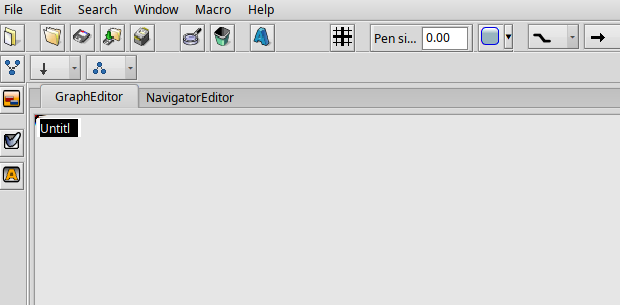
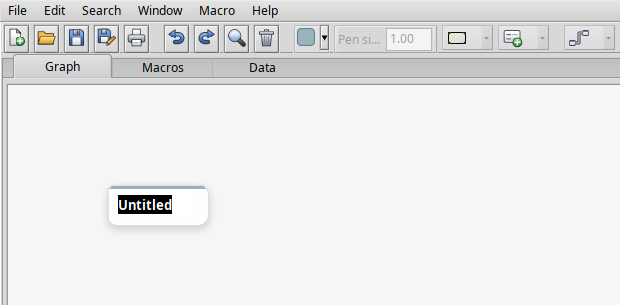
Docs: screenshots and texts for the new look
Claude-Session: https://claude.ai/code/session_01PMj6tpvjB6sijH4ABSm4uU

Changed region(s): [[0.0, 0.0, 1.0, 1.0], [0.1839, 0.5902, 0.3371, 0.7082]]

diff --git a/docs/help/user-guide.md b/docs/help/user-guide.md
@@ -11,31 +11,33 @@ through the main workflows using screenshots of a running instance.
 ![Toolbar](screenshots/03-toolbar.png)
 
 Left to right: file actions (New, Open, Save, Save As, Print), then
-Search, Delete, and font settings, then grid toggle, pen size, fill
-color, and on the right three icon choice fields:
+Undo, Redo, Find and Delete. The groups after that act on the selection
+and are shown while the **Graph** tab is active:
 
+- **Color** - opens the color picker. For nodes it has four tabs:
+  **Fill** (the card's background), **Highlight** (the band along the
+  top), **Border** and **Text**; for connections it sets the line
+  color. Each tab offers the theme's standard color, a palette, the
+  custom colors you used recently, and an alpha slider for see-through
+  colors. The color shows live on the selection.
+- **Pen size** - the border width of the selected nodes, or the line
+  width of the selected connections (arrowheads grow with it).
 - **Node shape** - rounded rectangle, rectangle, ellipse, diamond,
-  triangle, hexagon, parallelogram, or note. Applies to the selected
-  nodes; name and attributes stay inside the shape, and connections
-  dock on its outline. Undo and macro recording work as for any other
-  change.
-- **Connection shape** - straight, rounded, or angular. Applies to
-  whichever connections are currently selected.
+  triangle, hexagon, parallelogram, or note. Name and attributes stay
+  inside the shape, and connections dock on its outline.
+- **Attribute** - adds a text or a yes/no attribute to the selected
+  nodes (see below).
+- **Connection shape** - straight, rounded, or angular.
 - **Arrow ends** - arrowhead at the target, at the source, at both
   ends, or none.
 
-All three show the current pick as an icon; the pop-up menu also
-carries the name, in case the icon alone isn't clear enough.
+The choice fields show the current pick as an icon; the pop-up menu
+also carries the name. Undo and macro recording work as for any other
+change.
 
-The **grid toggle** overlays an alignment grid and snaps node
-positions to it as you create or drag them - a quick way to line
-several nodes up into neat rows or columns without hand-nudging each
-one.
+Then the automatic layout:
 
-Below that, a second toolbar row, visible while the GraphEditor tab is
-active:
-
-![Auto-Layout toolbar](screenshots/06-autolayout-toolbar.png)
+![Auto-Layout tools](screenshots/06-autolayout-toolbar.png)
 
 - **Leftmost icon** - applies the automatic layout.
 - **Direction** - which way the graph grows (top-to-bottom,
@@ -43,30 +45,40 @@ active:
 - **Topology** - the layout algorithm (hierarchical, circular,
   force-directed, ...).
 
+The last two icons toggle the **grid**, which snaps node positions as
+you create or drag them, and the **smart alignment guides**, which
+show when a dragged node lines up with its neighbours.
+
+The status bar at the bottom shows the selection, its position and
+size, and the zoom; **-**, **+** and **Fit** change the zoom, which
+keeps the middle of the view in place.
+
 ## Creating a node
 
-Double-clicking an empty spot in the GraphEditor creates a new node and
-immediately puts its name into edit mode:
+Double-clicking an empty spot in the **Graph** tab creates a new node
+and immediately puts its name into edit mode:
 
 ![New node](screenshots/01-insert-node.png)
 
 Type a name, done. Double-clicking *inside* an existing group instead
 adds the new node as a child of that group directly.
 
-The narrow toolbar down the left edge (visible in the screenshot
-above) carries the GraphEditor's own node tools: group the current
-selection, add a boolean attribute, and add a text attribute.
+Hovering over a node shows its resize handles and connection points; a
+selected node keeps its handles on all sides and corners. The mouse
+pointer shows what a click would do - edit text, toggle, resize, or
+start a connection.
 
 ## Attributes
 
-Any node can carry its own attribute rows - added to the selected node
-via the "add boolean attribute" / "add text attribute" icons on that
-left-edge toolbar:
+Any node can carry its own attribute rows - added to the selected
+nodes via the toolbar's **Attribute** menu (Text or Yes/No). The new
+row's name opens for typing right away:
 
 ![Node with attributes](screenshots/04-node-with-attributes.png)
 
-Each row has a checkmark icon (toggle the value) and a red cross
-(remove the row).
+Click a name or a text value to edit it, click a yes/no box to toggle
+it. A selected node shows a small cross at the end of each row to
+remove it.
 
 ## Search and bulk edits
 
@@ -82,7 +94,7 @@ clicked on.
 
 ## Connections
 
-Dragging from one of a node's four red connection points to another
+Dragging from one of a node's four connection points to another
 node creates a connection between them; it can be dropped anywhere on
 the target node. The line docks where it meets the node's outline,
 also for shaped nodes. Its shape and arrow ends can be
@@ -91,8 +103,8 @@ connection is selected (works on several at once).
 
 ## Grouping
 
-Select several nodes, then click the group icon in the toolbar. The
-group draws itself as one connected shape that hugs its children
+Select several nodes, then click **Group** in the small bar that
+appears above the selection. The group draws itself as one connected shape that hugs its children
 tightly - even when they're different sizes or don't line up at the
 same height:
 
@@ -103,9 +115,8 @@ and shrinks back just as readily when a child is removed. Double-
 clicking the group's own area adds a new child node to it directly (see
 above).
 
-A freshly created group defaults to just a faint tint with no drop
-shadow - like any node, its fill color can be set to something solid
-via the toolbar's fill color control.
+A freshly created group is drawn as a faint tint behind its children;
+the color picker's **Fill** tab gives it a color of its own.
 
 If two children don't overlap vertically at all - one sitting entirely
 above the other - the group connects them with a short, fixed-width
@@ -115,7 +126,7 @@ corridor instead of stretching a single shape across the gap:
 
 ## Automatic layout
 
-The leftmost icon of the second toolbar row (see above) rearranges the
+The automatic layout icon in the toolbar (see above) rearranges the
 whole graph - useful after inserting many nodes by hand, which tend to
 overlap. Direction and topology can be set first via the two fields
 next to it.
@@ -123,13 +134,13 @@ next to it.
 ## Macros
 
 The **Macro** menu records a sequence of actions and plays it back
-later. The **MacroEditor** tab shows a macro as a tree you can edit -
+later. The **Macros** tab shows a macro as a tree you can edit -
 change values, add and move commands - and builds new macros from a
 list of all commands. Macros can repeat steps, run them per selected
 node or only when a search finds something, pass values along in
 variables and put them into text, and are saved with the document.
 
-![The MacroEditor tab](screenshots/10-macro-editor.png)
+![The Macros tab](screenshots/10-macro-editor.png)
 
 See [Macros](macros.md) for the full guide and the command reference.
 

diff --git a/docs/help/macros.md b/docs/help/macros.md
@@ -3,15 +3,15 @@
 A macro is a list of commands - insert nodes, select, move, change an
 attribute, lay out the graph, ... - that ProjectConceptor plays back on
 the current document. Macros can be recorded while you work, built and
-edited in the **MacroEditor** tab, and use loops, conditions and
+edited in the **Macros** tab, and use loops, conditions and
 variables. They are saved with the document and can be exported to a
 text file.
 
-![The MacroEditor tab](screenshots/10-macro-editor.png)
+![The Macros tab](screenshots/10-macro-editor.png)
 
 - [Quick start](#quick-start)
 - [The Macro menu](#the-macro-menu)
-- [The MacroEditor tab](#the-macroeditor-tab)
+- [The Macros tab](#the-macros-tab)
 - [Recording](#recording)
 - [Playing](#playing)
 - [Variables](#variables)
@@ -29,7 +29,7 @@ text file.
 the graph, choose **Macro > Stop recording** and give the macro a name.
 It now appears under **Macro > Play**.
 
-**Build one:** choose **Macro > New**, switch to the **MacroEditor**
+**Build one:** choose **Macro > New**, switch to the **Macros**
 tab and drag commands from the list on the right into the tree in the
 middle. Click a value to change it. Play it with **Macro > Play**.
 
@@ -39,15 +39,15 @@ middle. Click a value to change it. Play it with **Macro > Play**.
 |---|---|
 | Start recording / Stop recording | Records every edit in between as a new macro; you're asked for a name when you stop. |
 | Play | Lists this document's macros - choose one to play it. |
-| New | Creates an empty macro to build in the MacroEditor tab. |
+| New | Creates an empty macro to build in the Macros tab. |
 | Open | Imports a macro from a text file (see [Macro files](#macro-files)). A macro with the same name is replaced. |
-| Save | Exports the macro selected in the MacroEditor tab to a text file. |
-| Rename / Duplicate / Delete | Act on the macro selected in the MacroEditor tab. Delete asks first and can't be undone. |
+| Save | Exports the macro selected in the Macros tab to a text file. |
+| Rename / Duplicate / Delete | Act on the macro selected in the Macros tab. Delete asks first and can't be undone. |
 
 Macros belong to the document: they are saved with it and are there
 again when you open it.
 
-## The MacroEditor tab
+## The Macros tab
 
 The tab has three parts: the document's **macros** on the left, the
 selected macro as a **tree** in the middle, and a **reference of all
@@ -108,7 +108,7 @@ complete node, so playing the macro creates it again.
 
 Choose the macro under **Macro > Play**, or press its shortcut (see
 below). The graph updates after each step. When the macro has finished,
-the status line in the MacroEditor tab reports the result, for example
+the status line in the Macros tab reports the result, for example
 "Played 6 command(s).".
 
 If something didn't work, an alert says what - the first problem and

diff --git a/README.md b/README.md
@@ -8,8 +8,10 @@ thing out automatically.
 
 ## Features
 
-**Nodes with custom attributes** - give any node its own boolean or
-text attribute rows, each with an inline toggle or edit field.
+**Nodes with custom attributes** - give any node its own yes/no or
+text attribute rows, each with an inline toggle or edit field. Nodes
+are drawn as cards with a colored highlight band; fill, highlight,
+border and text colors, border width and shape are set per node.
 
 ![Node with attributes](docs/help/screenshots/04-node-with-attributes.png)
 
@@ -31,12 +33,12 @@ a direction (top-to-bottom, left-to-right, ...) and a layout algorithm
 ![Auto-Layout toolbar](docs/help/screenshots/06-autolayout-toolbar.png)
 
 **Macros** - record edits and play them back, or build macros in the
-MacroEditor tab: a tree of commands with loops, conditions, variables
+**Macros** tab: a tree of commands with loops, conditions, variables
 and text placeholders, e.g. to number new nodes or add up an attribute
 over everything connected to a node. See the
 [macro guide](docs/help/macros.md).
 
-![The MacroEditor tab](docs/help/screenshots/10-macro-editor.png)
+![The Macros tab](docs/help/screenshots/10-macro-editor.png)
 
 **Plugin architecture** - editors, commands and file-format
 translators are all plugins, so the app can be extended without
@@ -46,16 +48,16 @@ import/export and a plain-text export are included.
 **Full undo/redo** - every change, from creating a node to grouping,
 moving, or drawing a connection, can be undone and redone.
 
-**Navigator editor** - a second view of the same document: a plain
+**Data view** - a second view of the same document (the **Data** tab): a plain
 list of every node, drilling into any of them shows its raw BMessage
 fields directly - boolean, integer, float, text, point, rectangle,
 color, or nested sub-messages, each with its own inline editor - not
 just what the graph view happens to render.
 
-![Navigator editor](docs/help/screenshots/08-navigator-editor.png)
+![Data view](docs/help/screenshots/08-navigator-editor.png)
 
-**Scales to large graphs** - a generated 2200-node/1000+-connection
-test document, grouped and laid out, stays responsive.
+**Scales to large graphs** - a generated test document with 2200 nodes
+and as many connections stays responsive.
 
 ![A large generated graph](docs/help/screenshots/09-large-graph.png)
 
